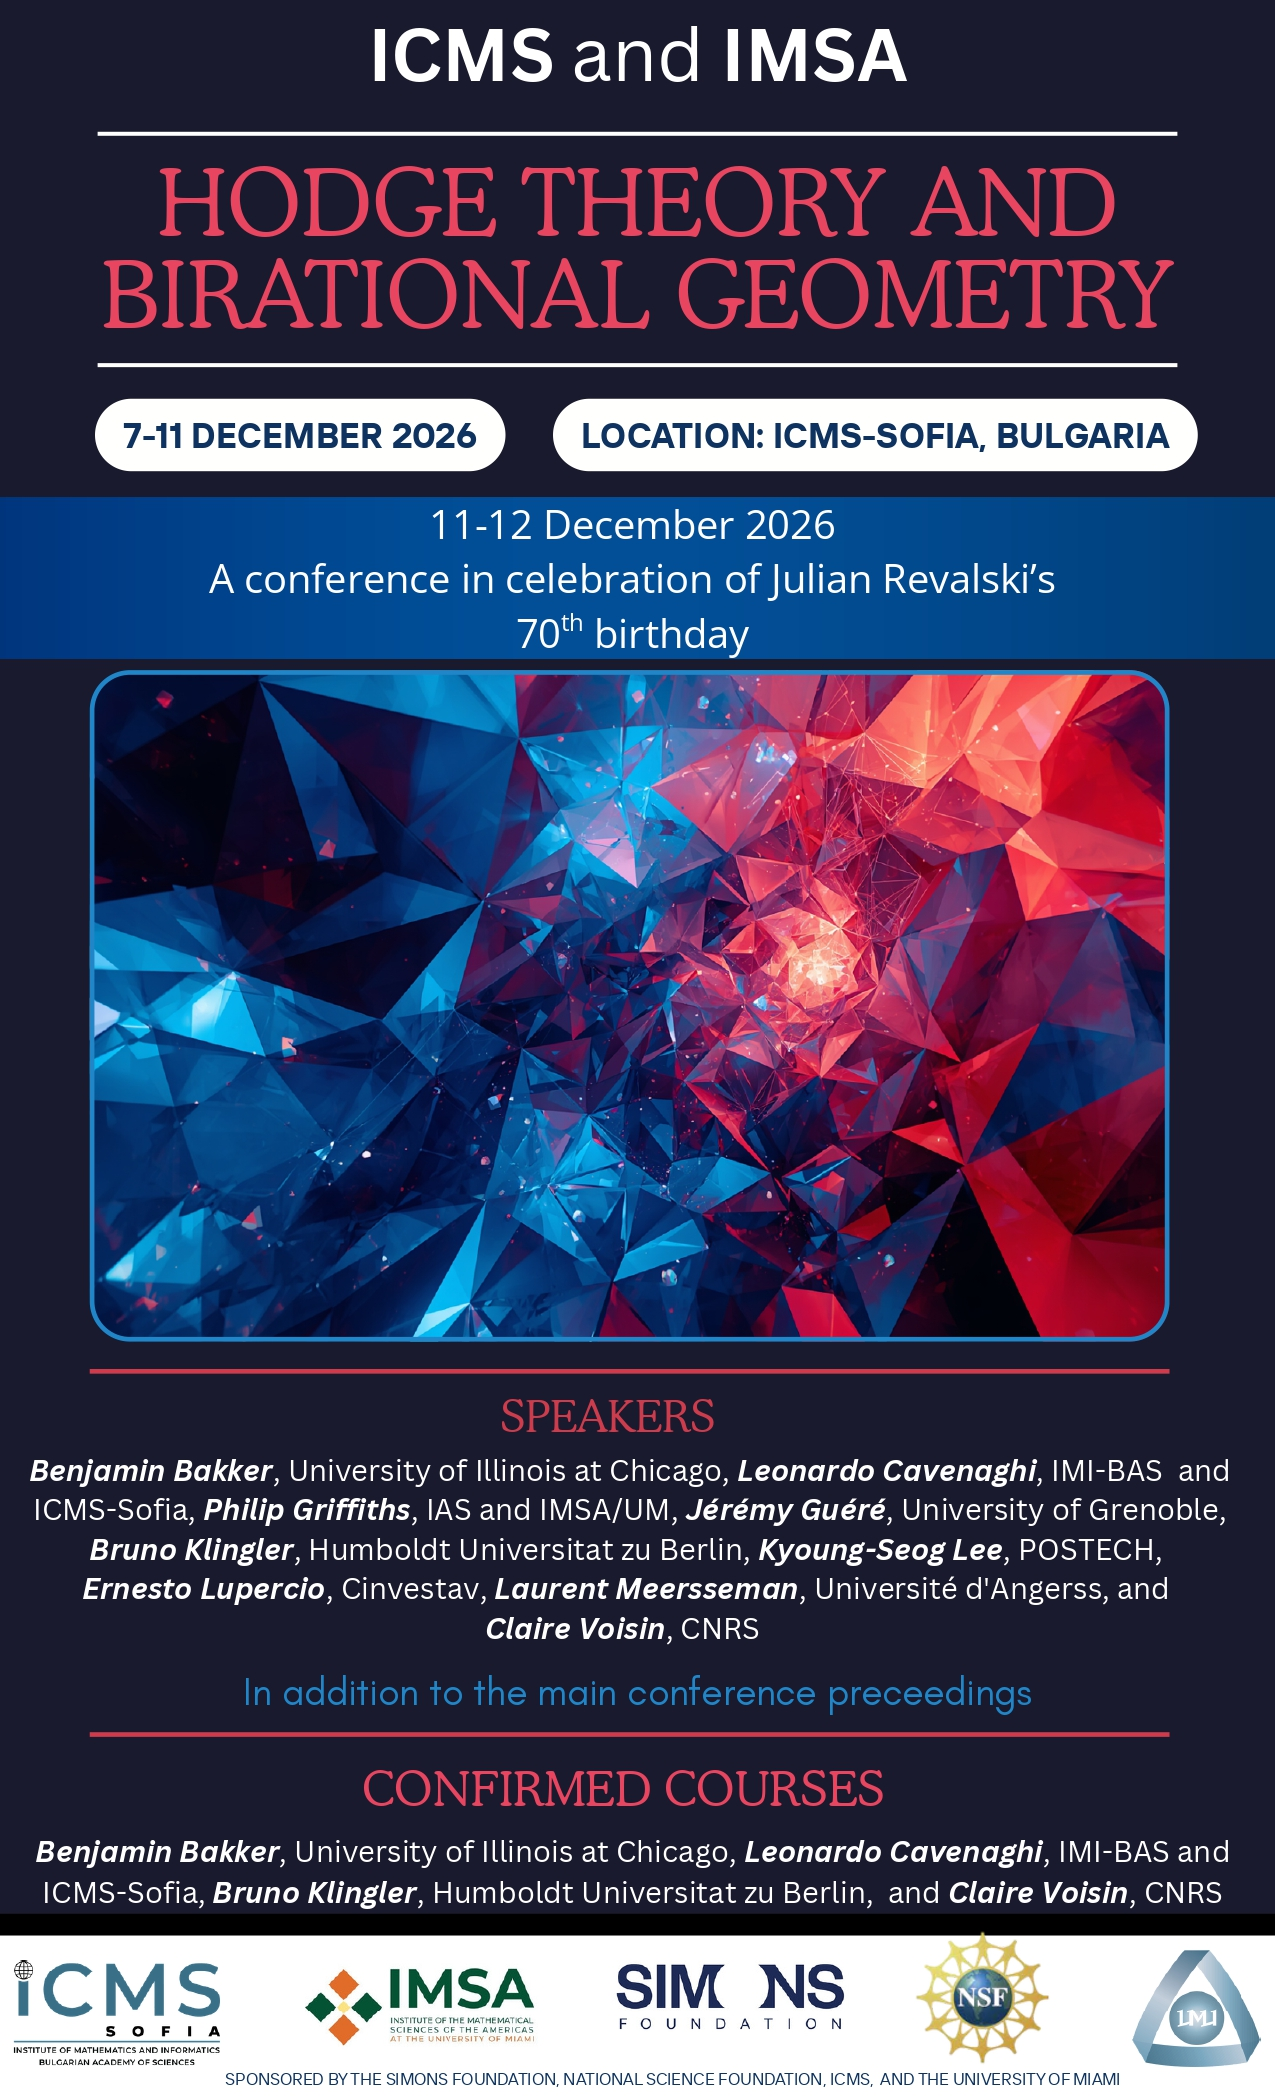
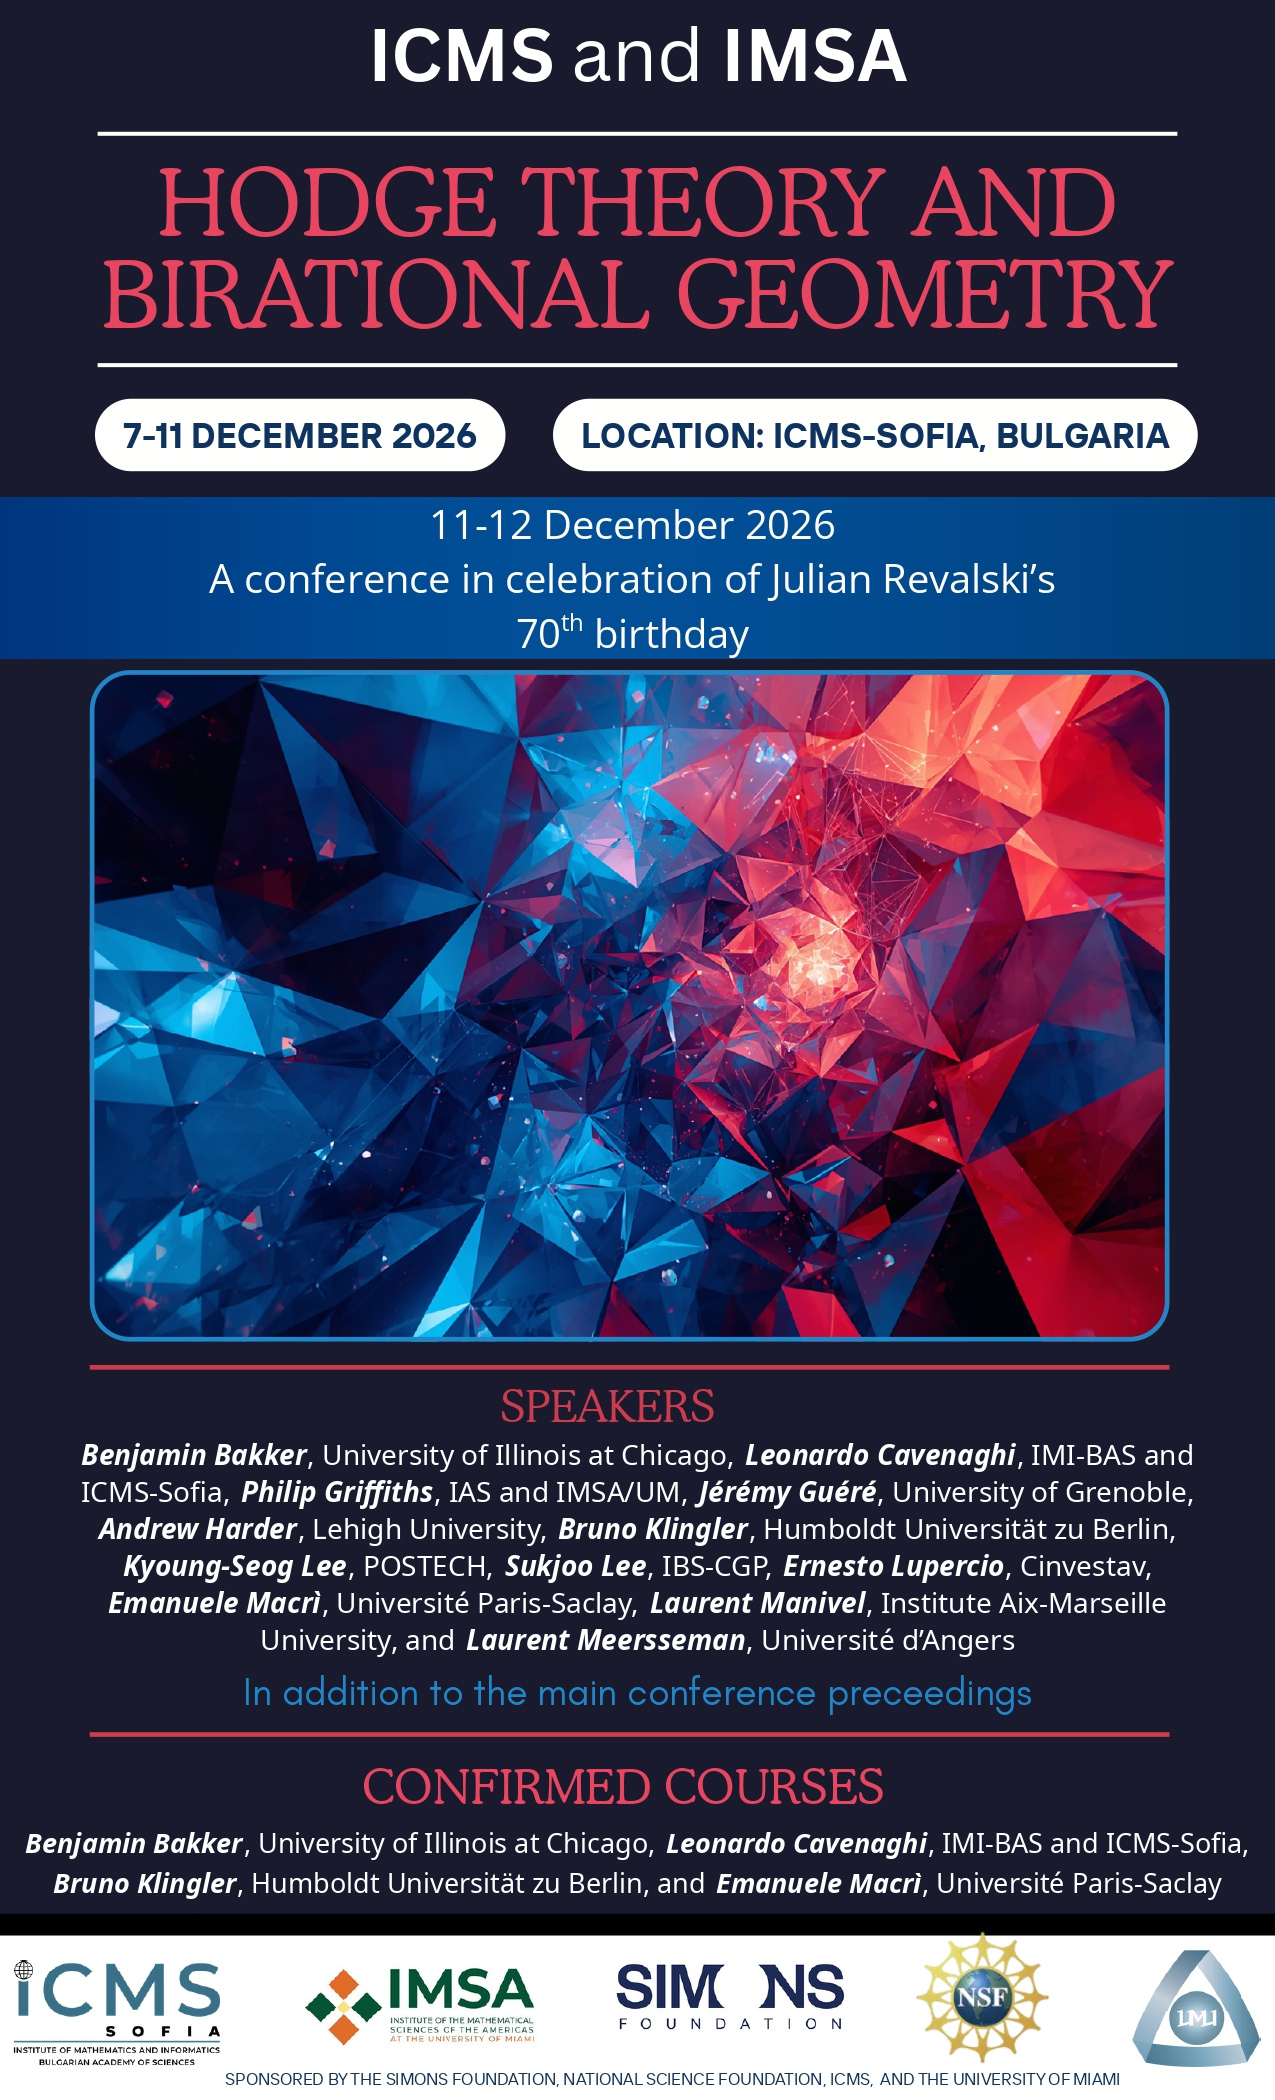
Remove Claire Voisin and sync poster speakers and confirmed courses with website

Changed region(s): [[0.0306, 0.65, 0.9482, 0.8048], [0.0306, 0.8357, 0.9788, 0.9286]]

diff --git a/index.html b/index.html
@@ -286,10 +286,6 @@
                     <span class="speaker-name">Emanuele Macrì</span>
                     <span class="speaker-inst">Université Paris-Saclay</span>
                 </div>
-                <div class="speaker">
-                    <span class="speaker-name">Claire Voisin</span>
-                    <span class="speaker-inst">CNRS</span>
-                </div>
             </div>
         </div>
 
@@ -343,10 +339,6 @@
                 <div class="speaker">
                     <span class="speaker-name">Laurent Meersseman</span>
                     <span class="speaker-inst">Université d'Angers</span>
-                </div>
-                <div class="speaker">
-                    <span class="speaker-name">Claire Voisin</span>
-                    <span class="speaker-inst">CNRS</span>
                 </div>
             </div>
         </div>

diff --git a/program.html b/program.html
@@ -96,7 +96,7 @@
         <div class="card">
             <div class="construction-icon">🚧</div>
             <h3>Program Under Construction</h3>
-            <p>The detailed schedule, including the times for the primary lectures and the supplementary courses by Leonardo Cavenaghi, Claire Voisin, Benjamin Bakker, and Bruno Klingler, is currently being finalized.</p>
+            <p>The detailed schedule, including the times for the primary lectures and the supplementary courses by Benjamin Bakker, Leonardo Cavenaghi, Bruno Klingler, and Emanuele Macrì, is currently being finalized.</p>
         </div>
     </div>
 

diff --git a/participants.html b/participants.html
@@ -131,10 +131,6 @@
                     <span class="speaker-inst">Humboldt Universität zu Berlin</span>
                 </div>
                 <div class="speaker">
-                    <span class="speaker-name">Claire Voisin</span>
-                    <span class="speaker-inst">CNRS</span>
-                </div>
-                <div class="speaker">
                     <span class="speaker-name">Emanuele Macrì</span>
                     <span class="speaker-inst">Université Paris-Saclay</span>
                 </div>
